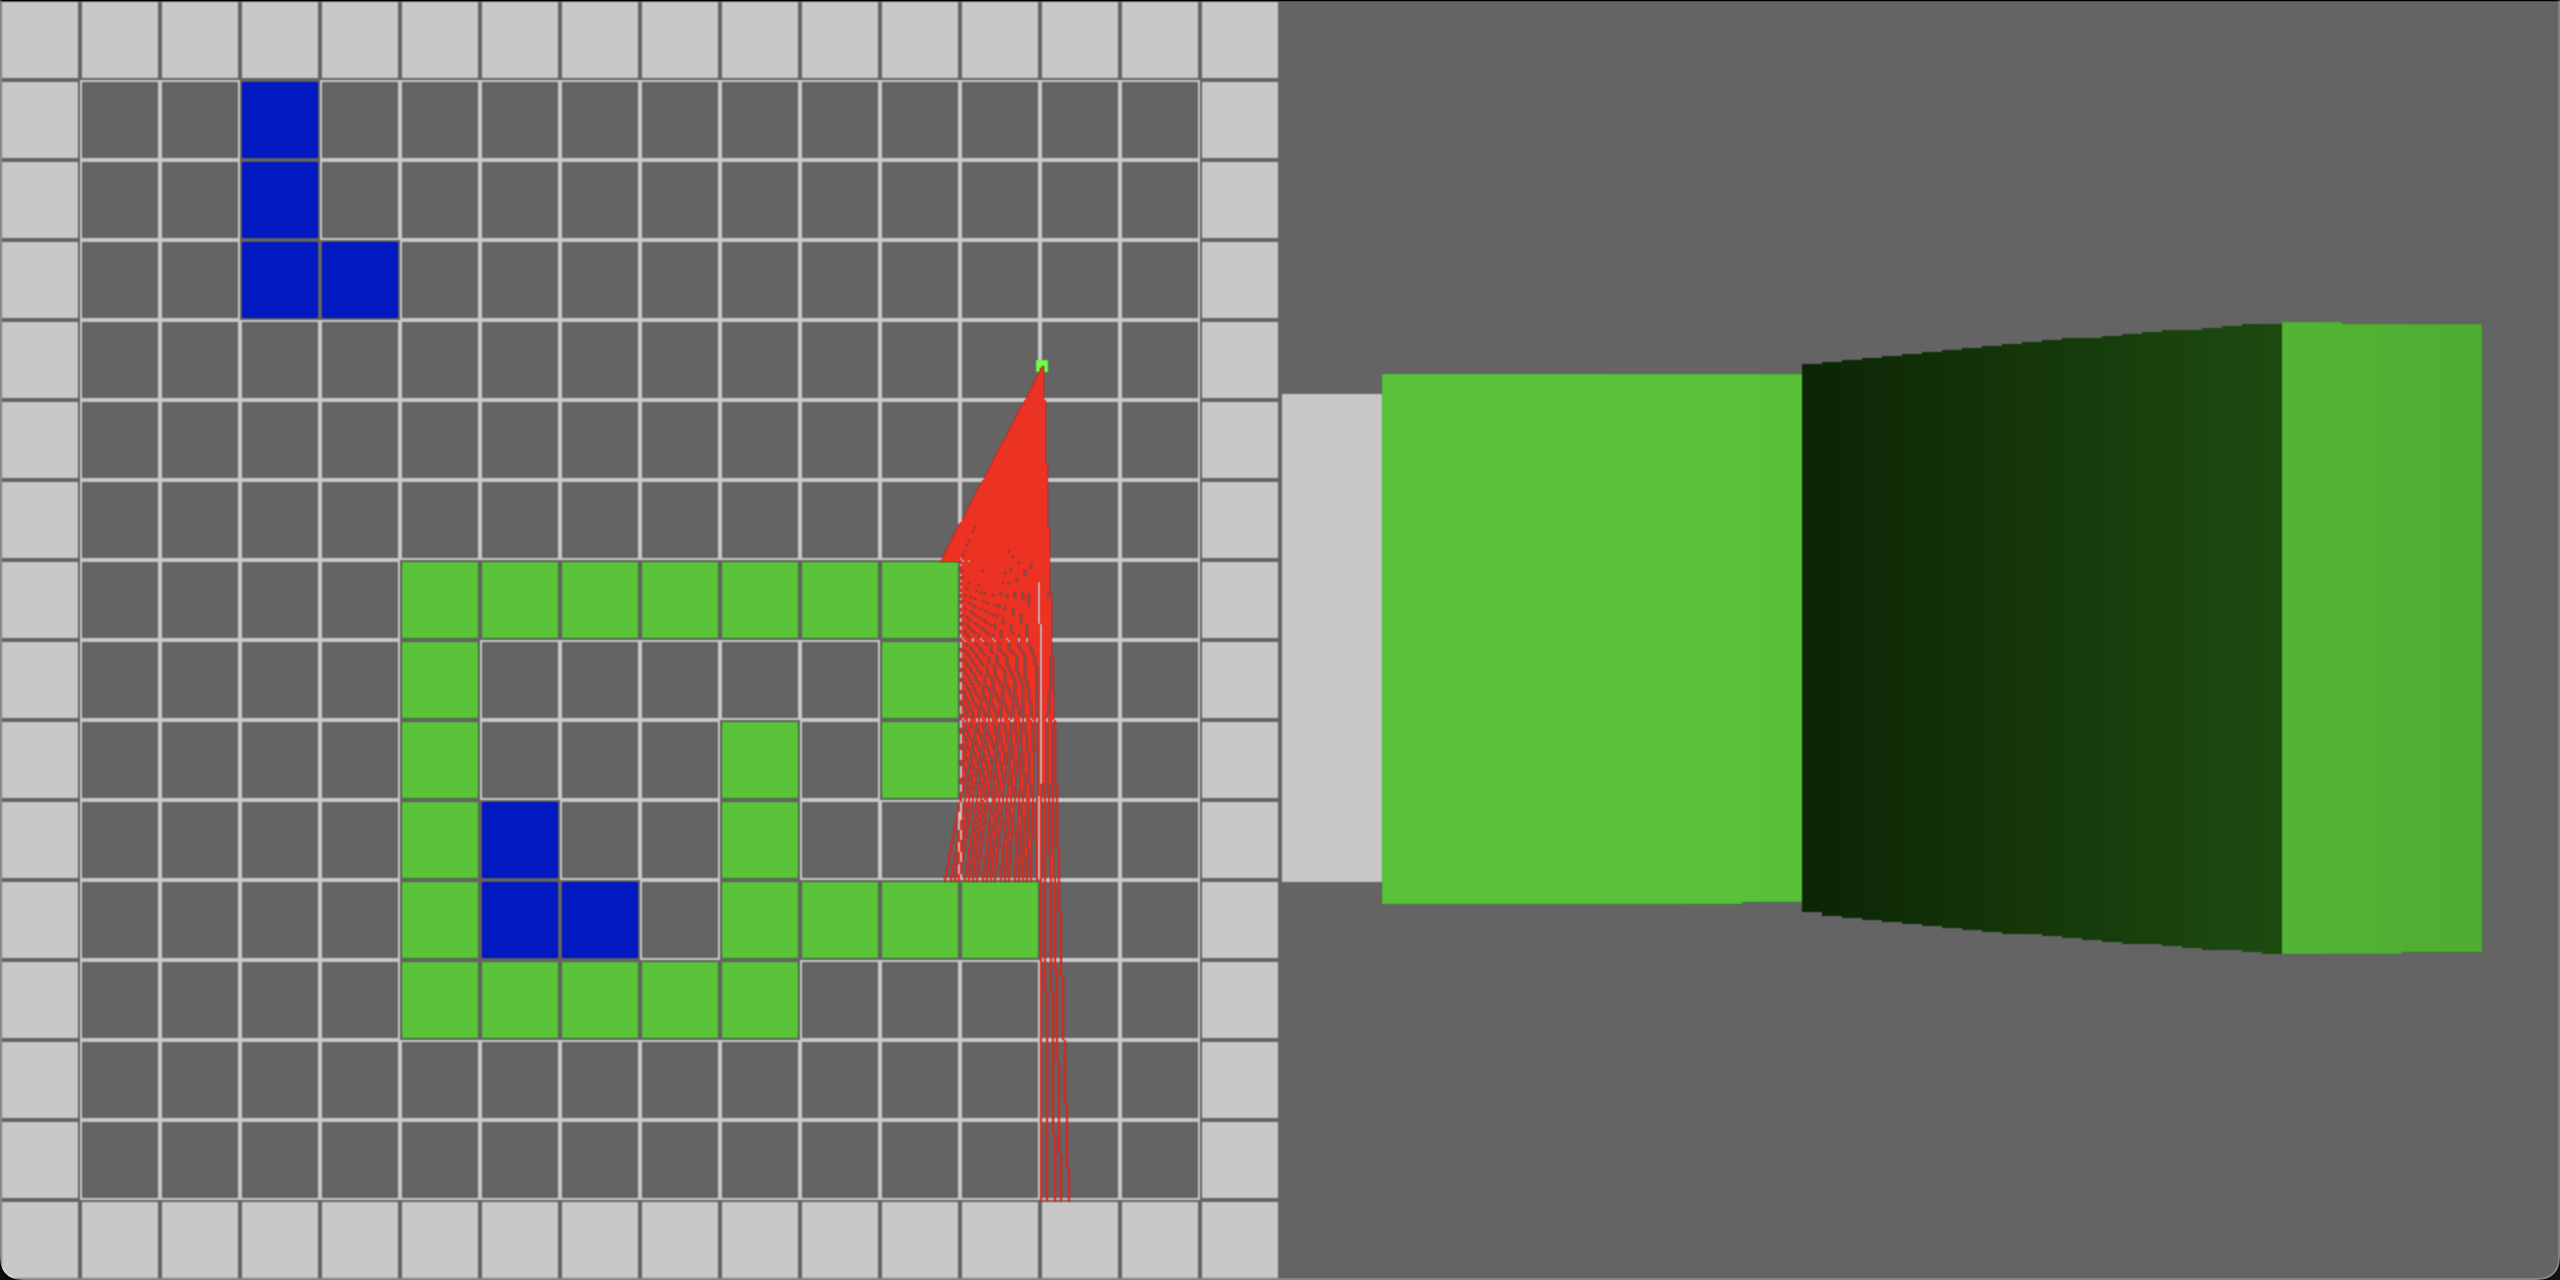
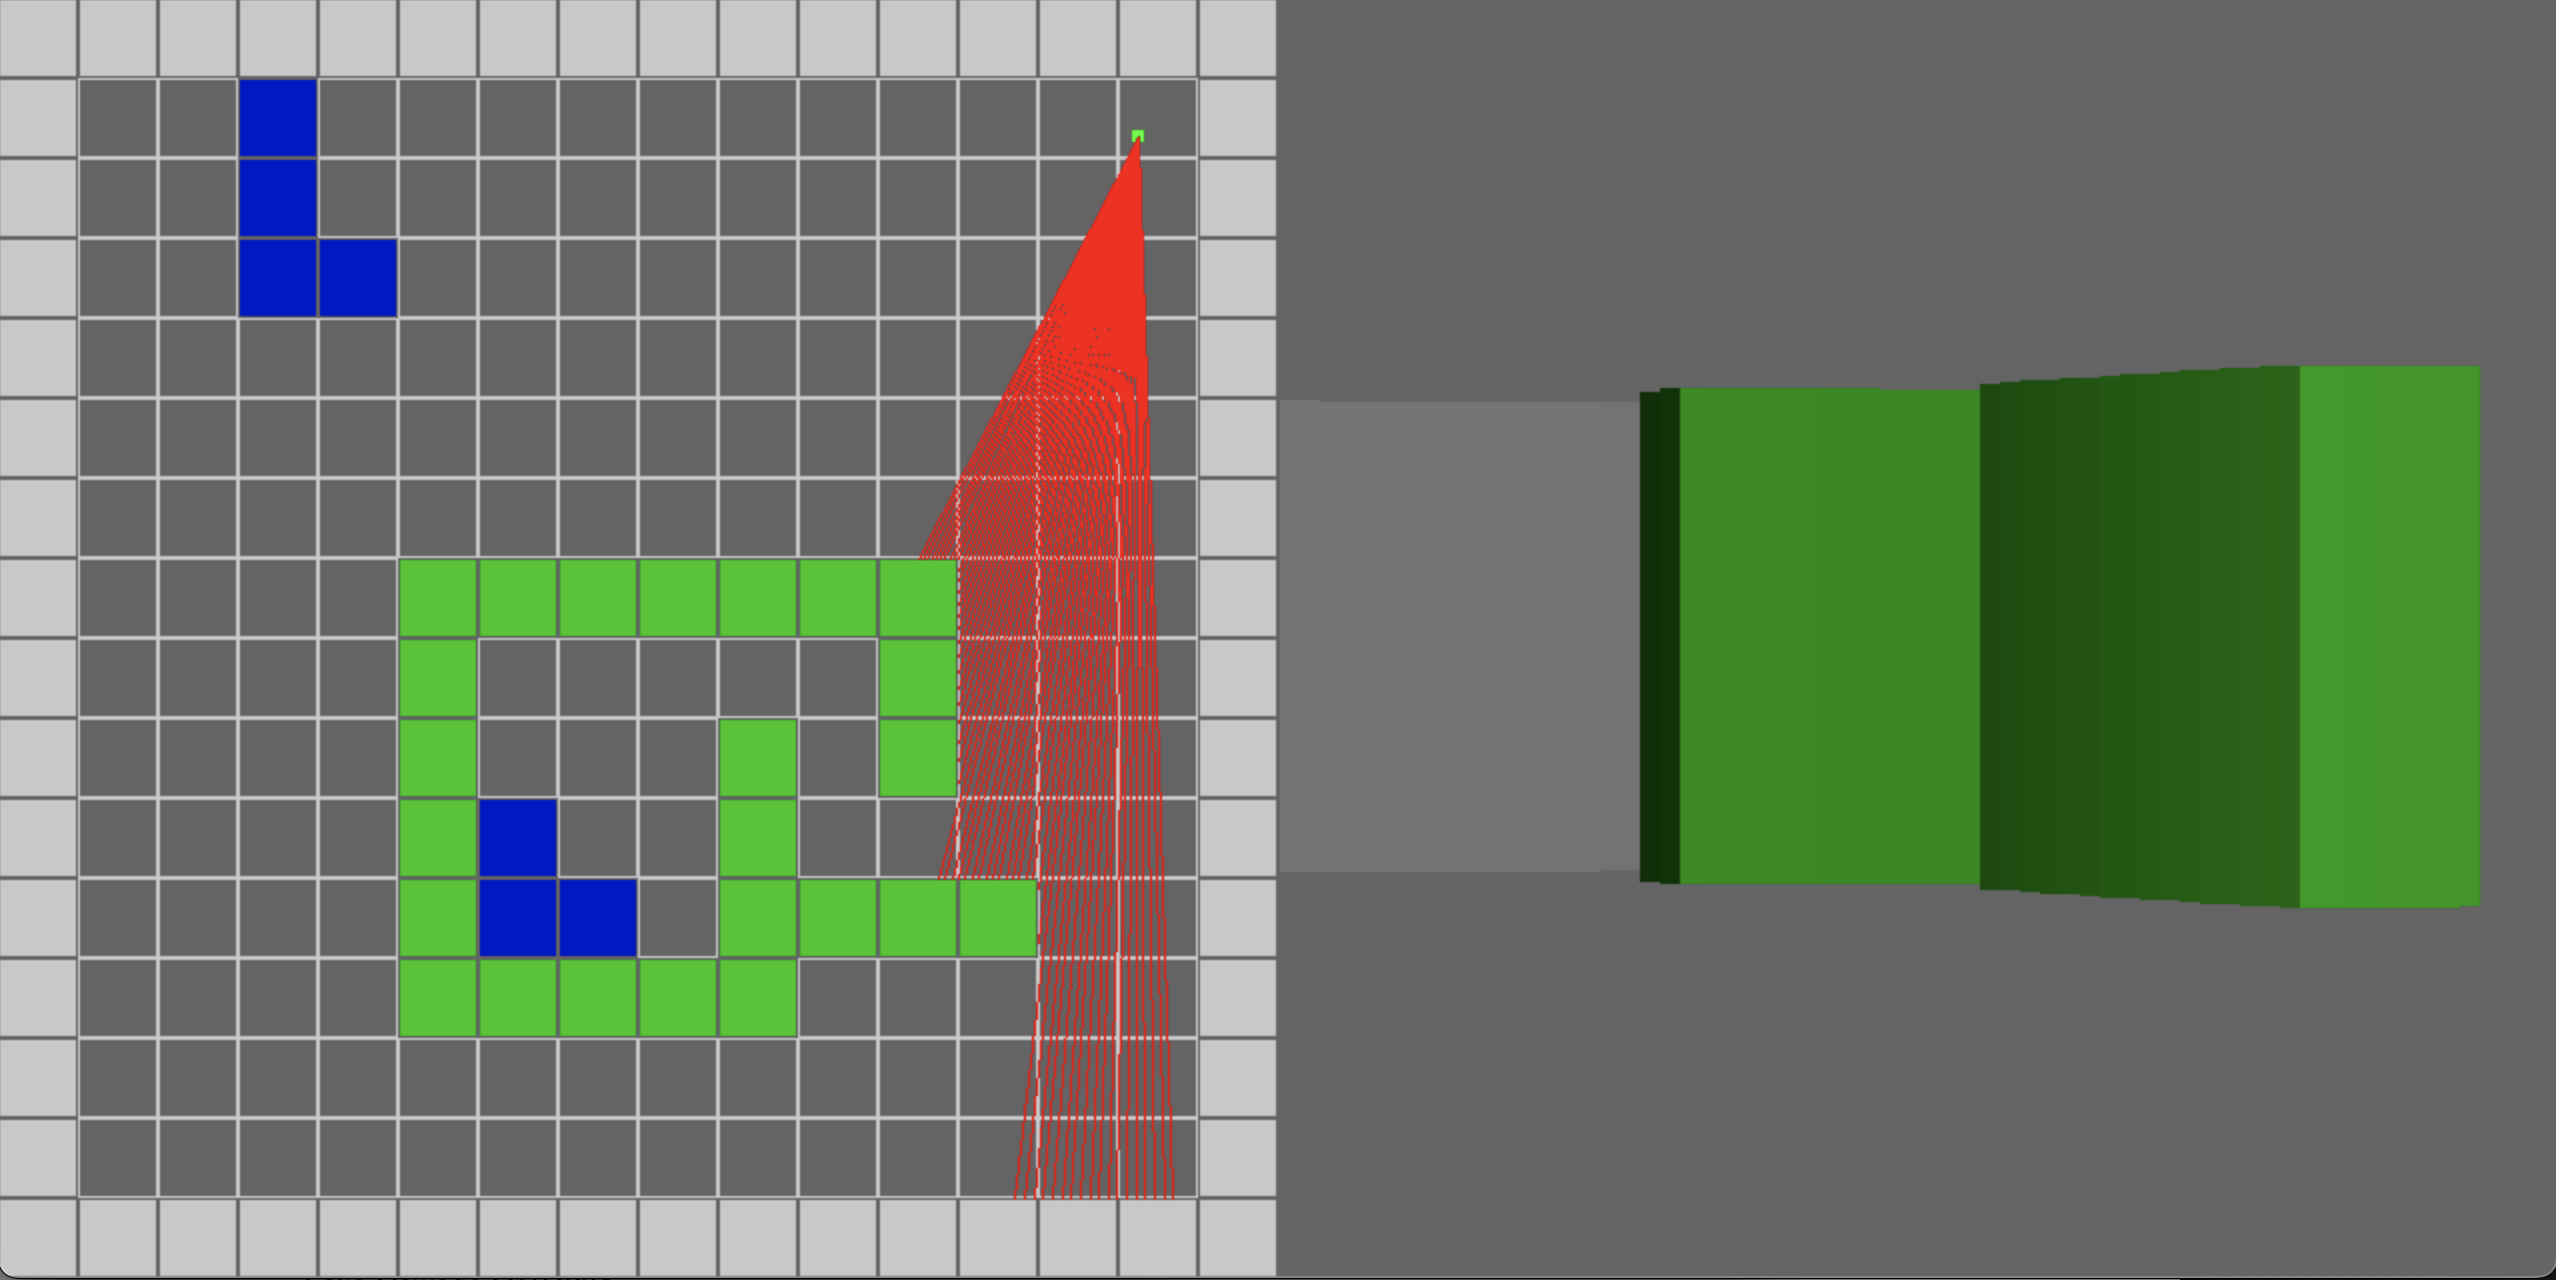
fixing fish

Changed region(s): [[0.0, 0.0, 0.989, 1.0], [0.989, 0.9688, 1.0, 1.0], [0.989, 0.0, 1.0, 0.0312]]

diff --git a/cmd/rtc/main.go b/cmd/rtc/main.go
@@ -211,20 +211,20 @@ func render(renderer *sdl.Renderer, env *Environment, pl *Player) {
 	renderer.SetDrawColor(100, 100, 100, 255)
 	renderer.Clear()
 
+	// Determine the xBox the player is in
+	xBox := env.xIndex(pl.X)
+	yBox := env.yIndex(pl.Y)
+
 	renderer.SetViewport(&sdl.Rect{X: 0, Y: 0, W: env.PixelWidth, H: env.PixelHeight})
-	render2D(renderer, env, pl)
+	render2D(renderer, env, pl, xBox, yBox)
 
 	renderer.SetViewport(&sdl.Rect{X: env.PixelWidth + 1, Y: 0, W: env.PixelHeight, H: env.PixelHeight})
-	render3D(renderer, env, pl)
+	render3D(renderer, env, pl, xBox, yBox)
 
 	renderer.Present()
 }
 
-func render3D(renderer *sdl.Renderer, env *Environment, pl *Player) {
-
-	// Determine the xBox the player is in
-	xBox := env.xIndex(pl.X)
-	yBox := env.yIndex(pl.Y)
+func render3D(renderer *sdl.Renderer, env *Environment, pl *Player, xBox, yBox int) {
 
 	// 30 degrees of view
 	width := float64(env.PixelWidth) * IncrementsDegrees / FieldOfViewDegrees
@@ -233,7 +233,32 @@ func render3D(renderer *sdl.Renderer, env *Environment, pl *Player) {
 	for offset := -FieldOfViewRads / 2; offset < FieldOfViewRads/2; offset += IncrementsRads {
 		_, _, distance, color, angle := detectCollision(float64(pl.X), float64(pl.Y), xBox, yBox, pl.Angle+offset, env)
 
-		renderer.SetDrawColor(uint8(float64(color.R)*angle), uint8(float64(color.G)*angle), uint8(float64(color.B)*angle), color.A)
+		// Lessen impact of angle
+		angle = math.Sqrt(angle)
+
+		// Add shading for the angle
+		color.R = uint8(float64(color.R) * angle)
+		color.G = uint8(float64(color.G) * angle)
+		color.B = uint8(float64(color.B) * angle)
+
+		delta := float64(env.PixelWidth) - distance/2
+		if delta < 0 {
+			// This is _so_ far away we should make it black
+			continue
+		}
+
+		// Convert it to a ratio
+		darkness := delta / float64(env.PixelWidth)
+
+		// Darken further away items
+		color.R = uint8(float64(color.R) * darkness)
+		color.G = uint8(float64(color.G) * darkness)
+		color.B = uint8(float64(color.B) * darkness)
+
+		renderer.SetDrawColor(color.R, color.G, color.B, color.A)
+
+		// Fix fish-eye
+		distance *= math.Cos(offset)
 
 		height := float64(env.PixelHeight) / math.Log10(distance)
 
@@ -244,7 +269,7 @@ func render3D(renderer *sdl.Renderer, env *Environment, pl *Player) {
 	}
 }
 
-func render2D(renderer *sdl.Renderer, env *Environment, pl *Player) {
+func render2D(renderer *sdl.Renderer, env *Environment, pl *Player, xBox, yBox int) {
 	// Draw the map
 	xUnit := env.PixelWidth / env.UnitWidth
 	yUnit := env.PixelHeight / env.UnitHeight
@@ -270,10 +295,6 @@ func render2D(renderer *sdl.Renderer, env *Environment, pl *Player) {
 	renderer.SetDrawColor(0, 255, 0, 255)
 	rect := sdl.Rect{X: int32(pl.X) - pl.Width/2, Y: int32(pl.Y) - pl.Height/2, W: pl.Width, H: pl.Height}
 	renderer.FillRect(&rect)
-
-	// Determine the xBox the player is in
-	xBox := env.xIndex(pl.X)
-	yBox := env.yIndex(pl.Y)
 
 	renderer.SetDrawColor(255, 0, 0, 255)
 

diff --git a/README.md b/README.md
@@ -23,9 +23,9 @@ and then you should be able to just build and run the app.
 
 ## Status
 
-I'm mostly done. The only real remaining issue is a fish-eye with the 
-walls which I may try to fix, but otherwise I'm done with this project
-for now.
+I'm still playing around with some of the color shading and I may 
+go through and do some small optimizations, but for the most part
+I'm done with the main work.
 
 ## TODO
 
@@ -37,7 +37,8 @@ for now.
 * (DONE) Draw Field of View casting rays
 * (DONE) Render 3D
 * (DONE) 3D shading using angles
-* Fix fish-eye (?)
+* (DONE) Remove fish-eye
+* (DONE) 3D shading using distance
 
 ## Notes & Useful Links
 
